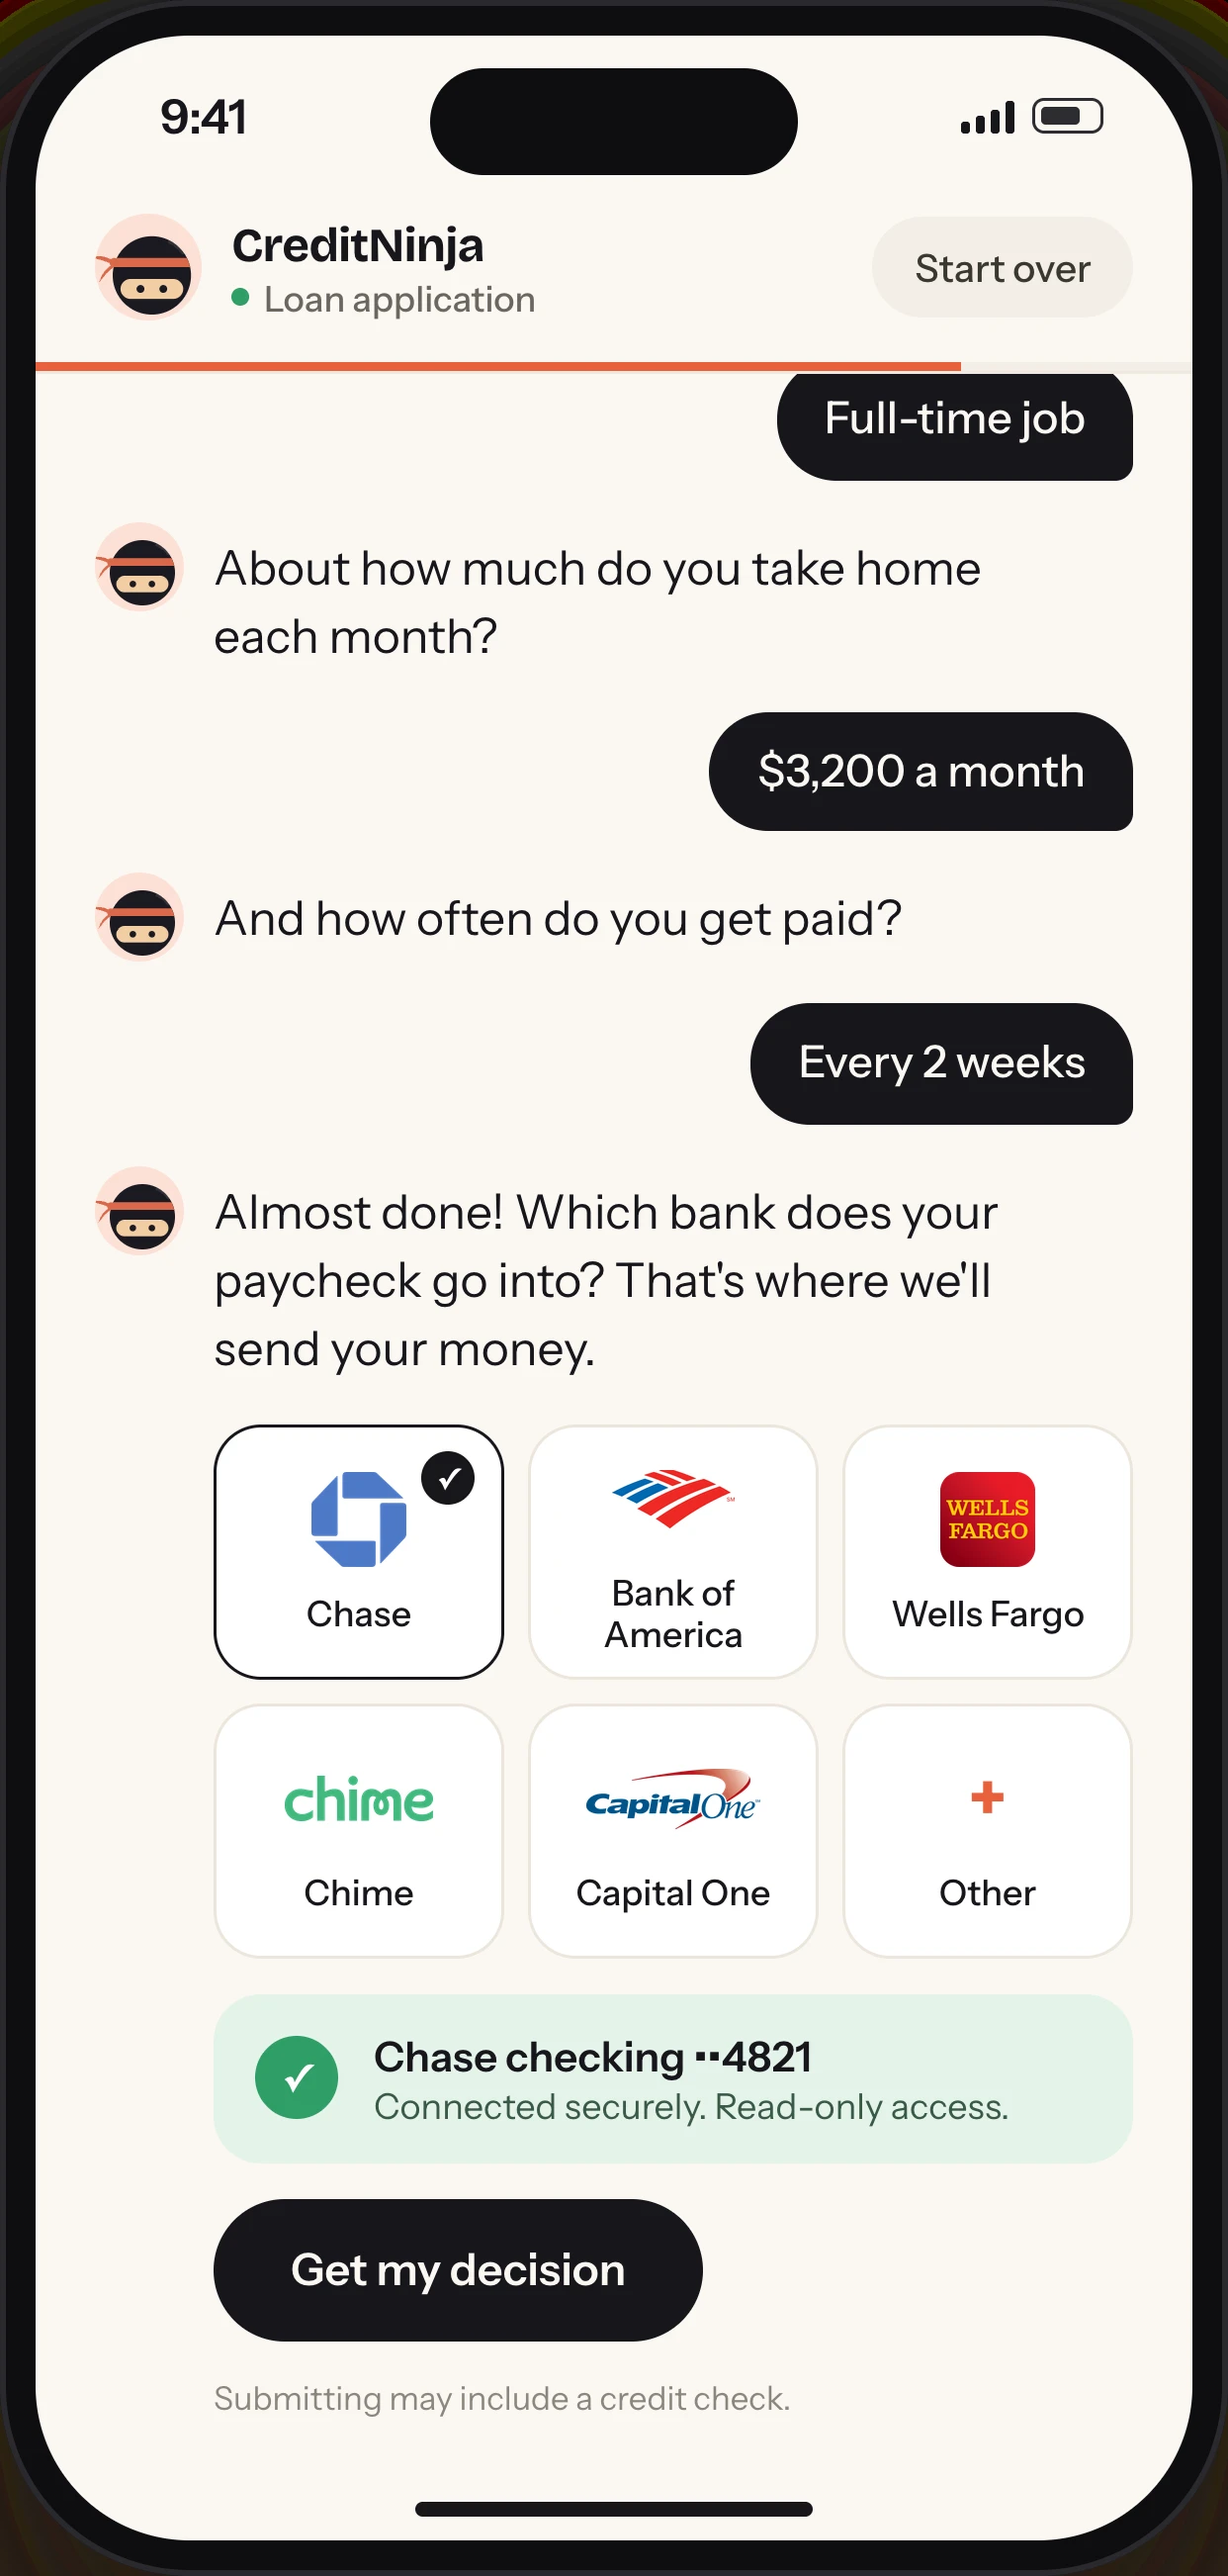
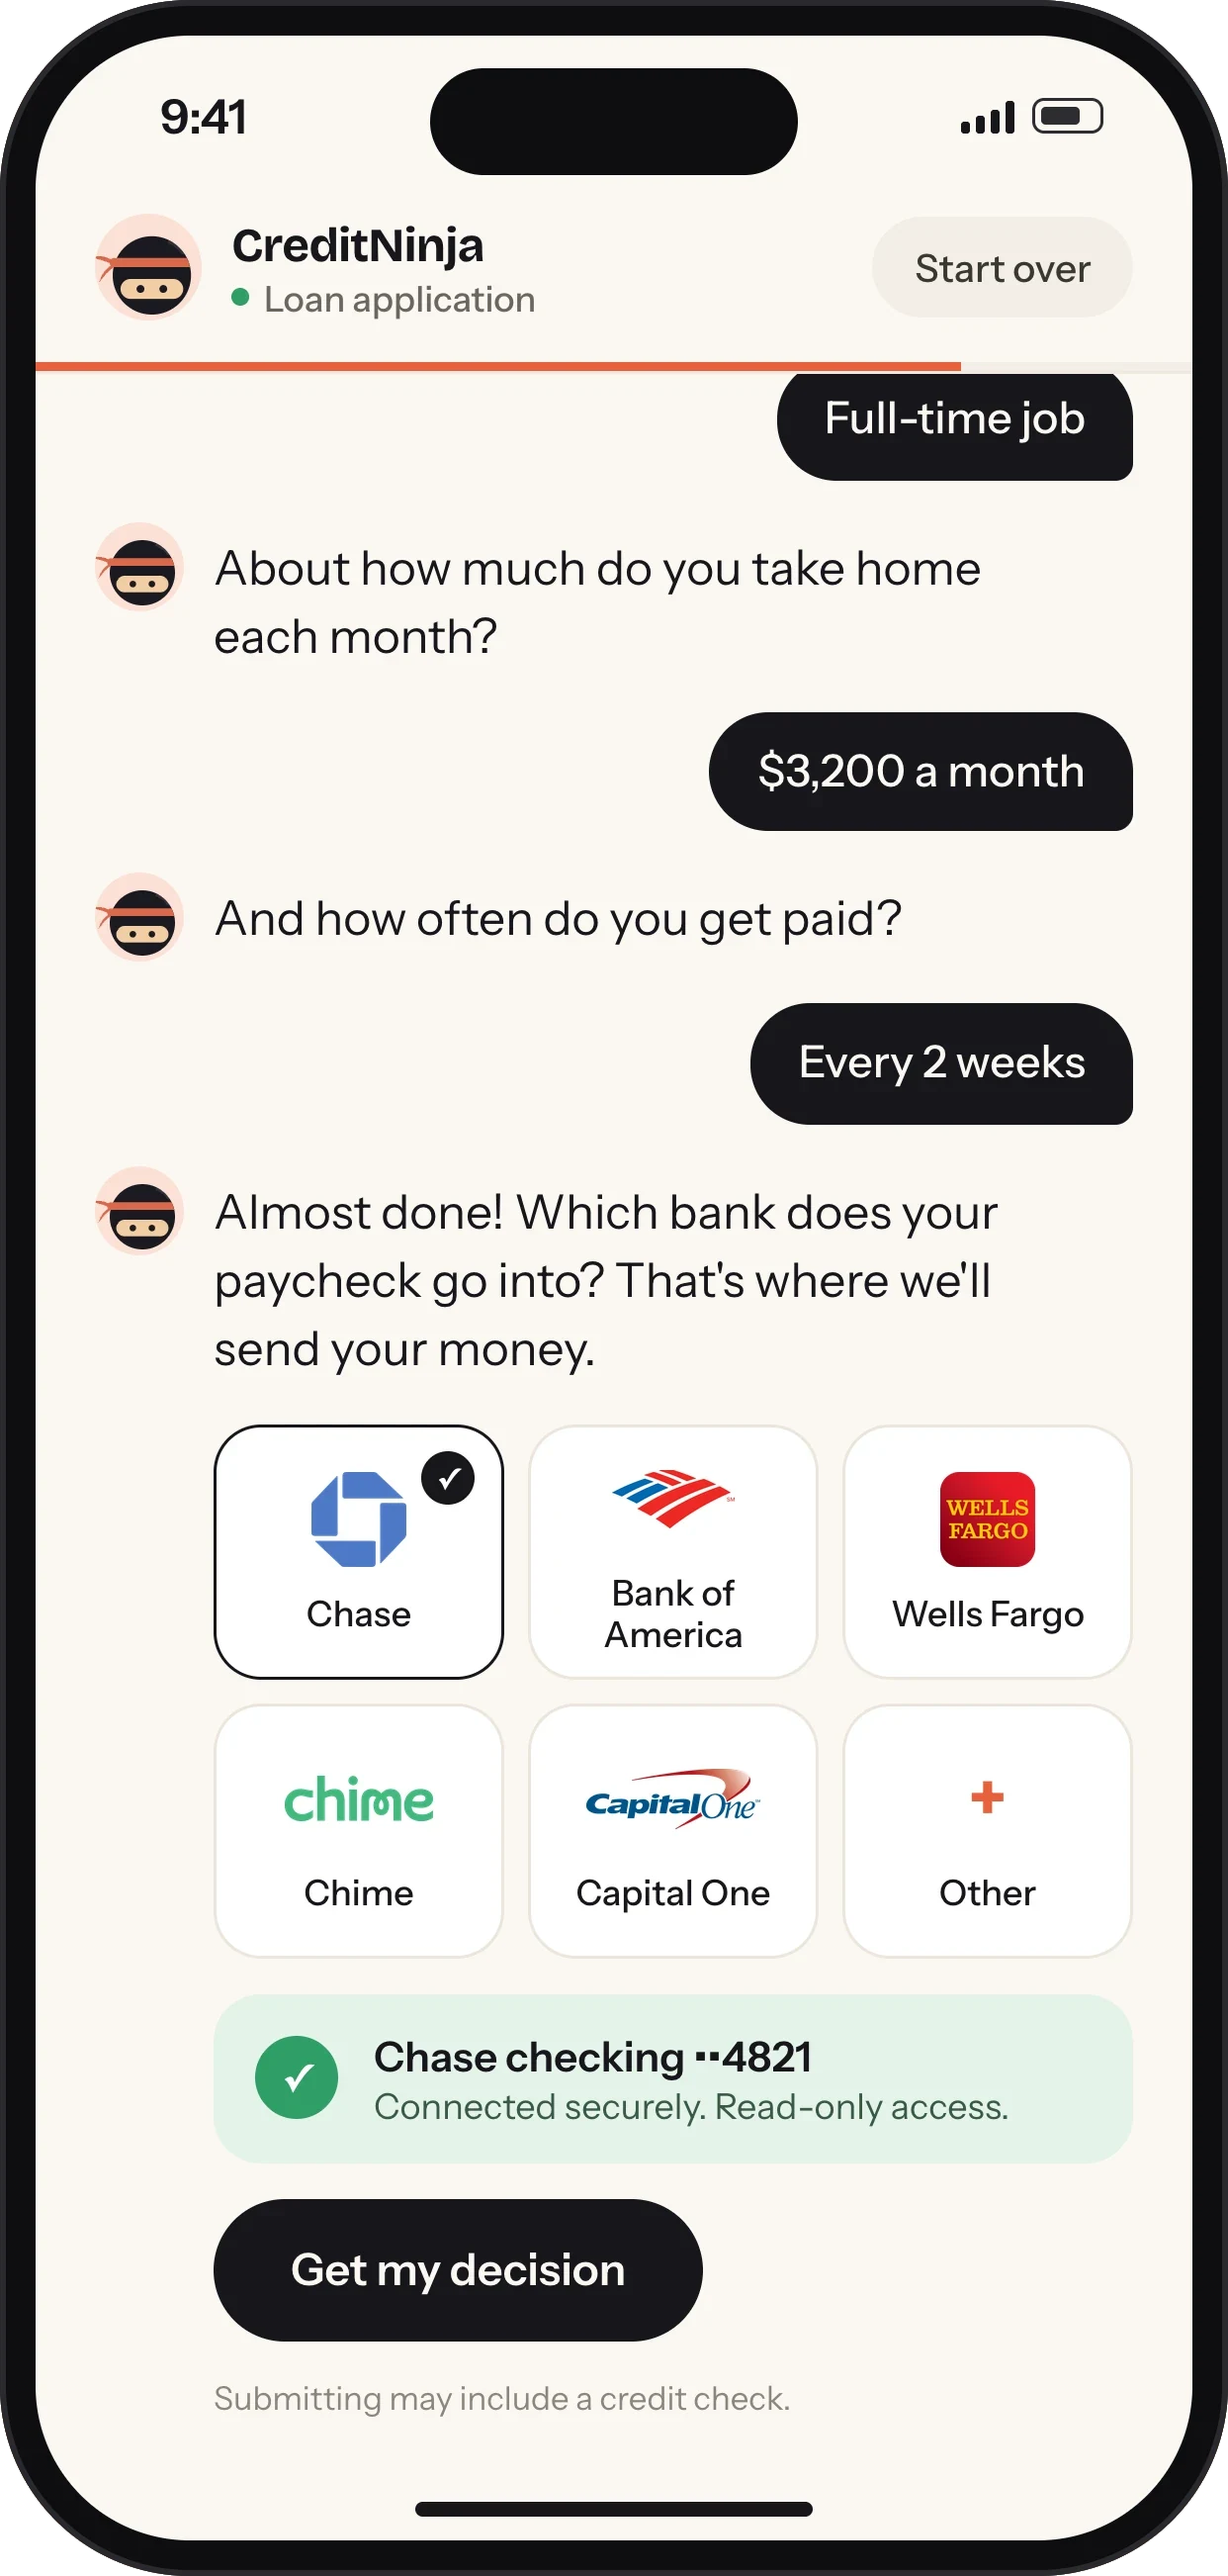
CreditNinja case: real phone chrome, one size, 70px gaps, no grey corner tabs
Before screen now sits in the same phone frame as the chat screens. Chat
images lose the faint baked-in shadow at the bottom corners (the grey tabs).
evenPhones now carries the page's phone aspect ratio; recordings take a zoom so
their phone fills the tile like the stills.

Claude-Session: https://claude.ai/code/session_01RNX7Ls6pd2w4Kgt8qFrR65

diff --git a/src/content/case-pages.ts b/src/content/case-pages.ts
@@ -5,7 +5,15 @@
  * Media paths are file names inside `public/work/<slug>/`.
  */
 
-export type Media = { src: string; alt: string; cap?: string; video?: boolean; poster?: string };
+export type Media = {
+  src: string;
+  alt: string;
+  cap?: string;
+  video?: boolean;
+  poster?: string;
+  /** Phone pages only: how far to zoom a recording so its phone fills the tile like the stills. */
+  zoom?: number;
+};
 
 export type Block = {
   kicker: string;
@@ -39,8 +47,8 @@ export type CasePage = {
   heroPair?: Media;
   /** Several phone screens in place of the single hero image. */
   heroSet?: Media[];
-  /** Every phone mockup on the page renders at one size with even gaps. */
-  evenPhones?: boolean;
+  /** Every phone mockup on the page renders at one size with even gaps. Value is the phone images' aspect ratio, e.g. "492 / 1011". */
+  evenPhones?: string;
   blocks: Block[];
 };
 
@@ -290,7 +298,7 @@ export const casePages: CasePage[] = [
       { src: "phone-reveal.webp", alt: "The ingredient reveal", cap: "Ingredient reveal" },
       { src: "phone-wallet.webp", alt: "The Apple Wallet pass", cap: "Apple Wallet pass" },
     ],
-    evenPhones: true,
+    evenPhones: "492 / 1011",
     blocks: [
       {
         kicker: "The challenge",
@@ -322,7 +330,7 @@ export const casePages: CasePage[] = [
         title: "Stop motion,",
         soft: "without a video.",
         body: ["Video would have been heavy and slow to start at the exact moment millions of people tapped the link. So the burrito was a sequence of small images, animated in the browser with GSAP. It played on every phone that tapped the link, and nothing heavy loaded before the coupon."],
-        media: [{ src: "burrito-anim.mp4", poster: "burrito-poster.jpg", alt: "The burrito animation", cap: "A recording made for this case study. The original ran live in the browser.", video: true }],
+        media: [{ src: "burrito-anim.mp4", poster: "burrito-poster.jpg", alt: "The burrito animation", cap: "A recording made for this case study. The original ran live in the browser.", video: true, zoom: 1.215 }],
         layout: "phones",
       },
       {
@@ -380,8 +388,9 @@ export const casePages: CasePage[] = [
       result: "Completion time fell to under five minutes. Completion rose 40%, drop-offs fell 27%, and confused service calls fell by 112 a month.",
     },
     links: [{ label: "Try the prototype", href: "/work/creditninja/prototype/index.html" }],
-    hero: { src: "before-loan-form.png", alt: "The original CreditNinja loan application: a long single-page form", cap: "Before" },
+    hero: { src: "before-phone.webp", alt: "The original CreditNinja loan application: a long single-page form", cap: "Before" },
     heroPair: { src: "chat-01.webp", alt: "Chat opening: the CreditNinja ninja asks how much you need", cap: "After" },
+    evenPhones: "1242 / 2604",
     blocks: [
       {
         kicker: "The challenge",
@@ -393,7 +402,7 @@ export const casePages: CasePage[] = [
           { k: "02", v: "A confusing completion experience" },
           { k: "03", v: "Poor mobile usability" },
         ],
-        media: [{ src: "phone-flow.webm", alt: "Screen recording of the original form on a phone", cap: "The original form", video: true }],
+        media: [{ src: "phone-flow.webm", alt: "Screen recording of the original form on a phone", cap: "The original form", video: true, zoom: 1.144 }],
         layout: "phones",
       },
       {

diff --git a/src/app/globals.css b/src/app/globals.css
@@ -562,11 +562,11 @@ h3 { font-weight: 600; font-size: clamp(18px, 1.5vw, 21px); letter-spacing: -0.0
 .even-phones { --phone-w: 220px; }
 .even-phones .cs-media.phones { display: flex; flex-wrap: wrap; justify-content: center; column-gap: clamp(20px, 5vw, 70px); row-gap: 28px; }
 .even-phones .cs-media.phones .cs-fig { width: var(--phone-w); }
-.even-phones .cs-media.phones .cs-tile { aspect-ratio: 492 / 1011; }
+.even-phones .cs-media.phones .cs-tile { aspect-ratio: var(--phone-ar); }
 .even-phones .cs-media.phones .cs-tile img { height: 100%; object-fit: contain; }
 /* The animation recording has its phone inside a dark frame: crop to the phone so it matches the stills. */
 .even-phones .cs-media.phones .cs-tile:has(video) { border-radius: 34px; }
-.even-phones .cs-media.phones .cs-tile video { height: 100%; object-fit: cover; transform: scale(1.215); }
+.even-phones .cs-media.phones .cs-tile video { height: 100%; object-fit: cover; transform: scale(var(--zoom, 1)); }
 @media (max-width: 640px) {
   .even-phones { --phone-w: min(150px, calc(50% - 10px)); }
 }

diff --git a/src/app/work/[slug]/page.tsx b/src/app/work/[slug]/page.tsx
@@ -26,7 +26,7 @@ function Pic({ m, slug }: { m: Media; slug: string }) {
   const src = `/work/${slug}/${m.src}`;
   return (
     <figure className="cs-fig">
-      <div className="cs-tile">
+      <div className="cs-tile" style={m.zoom ? ({ "--zoom": m.zoom } as React.CSSProperties) : undefined}>
         {m.video ? (
           <video src={src} poster={m.poster && `/work/${slug}/${m.poster}`} autoPlay muted loop playsInline aria-label={m.alt} />
         ) : (
@@ -131,7 +131,11 @@ export default async function CaseStudyPage({ params }: PageProps<"/work/[slug]"
         </div>
       </header>
 
-      <main className={`cs${p.evenPhones ? " even-phones" : ""}`} id="top">
+      <main
+        className={`cs${p.evenPhones ? " even-phones" : ""}`}
+        id="top"
+        style={p.evenPhones ? ({ "--phone-ar": p.evenPhones } as React.CSSProperties) : undefined}
+      >
         <div className="in">
           <section className="cs-hero on-dark" aria-labelledby="cs-h">
             <div className="cs-hero-top">
